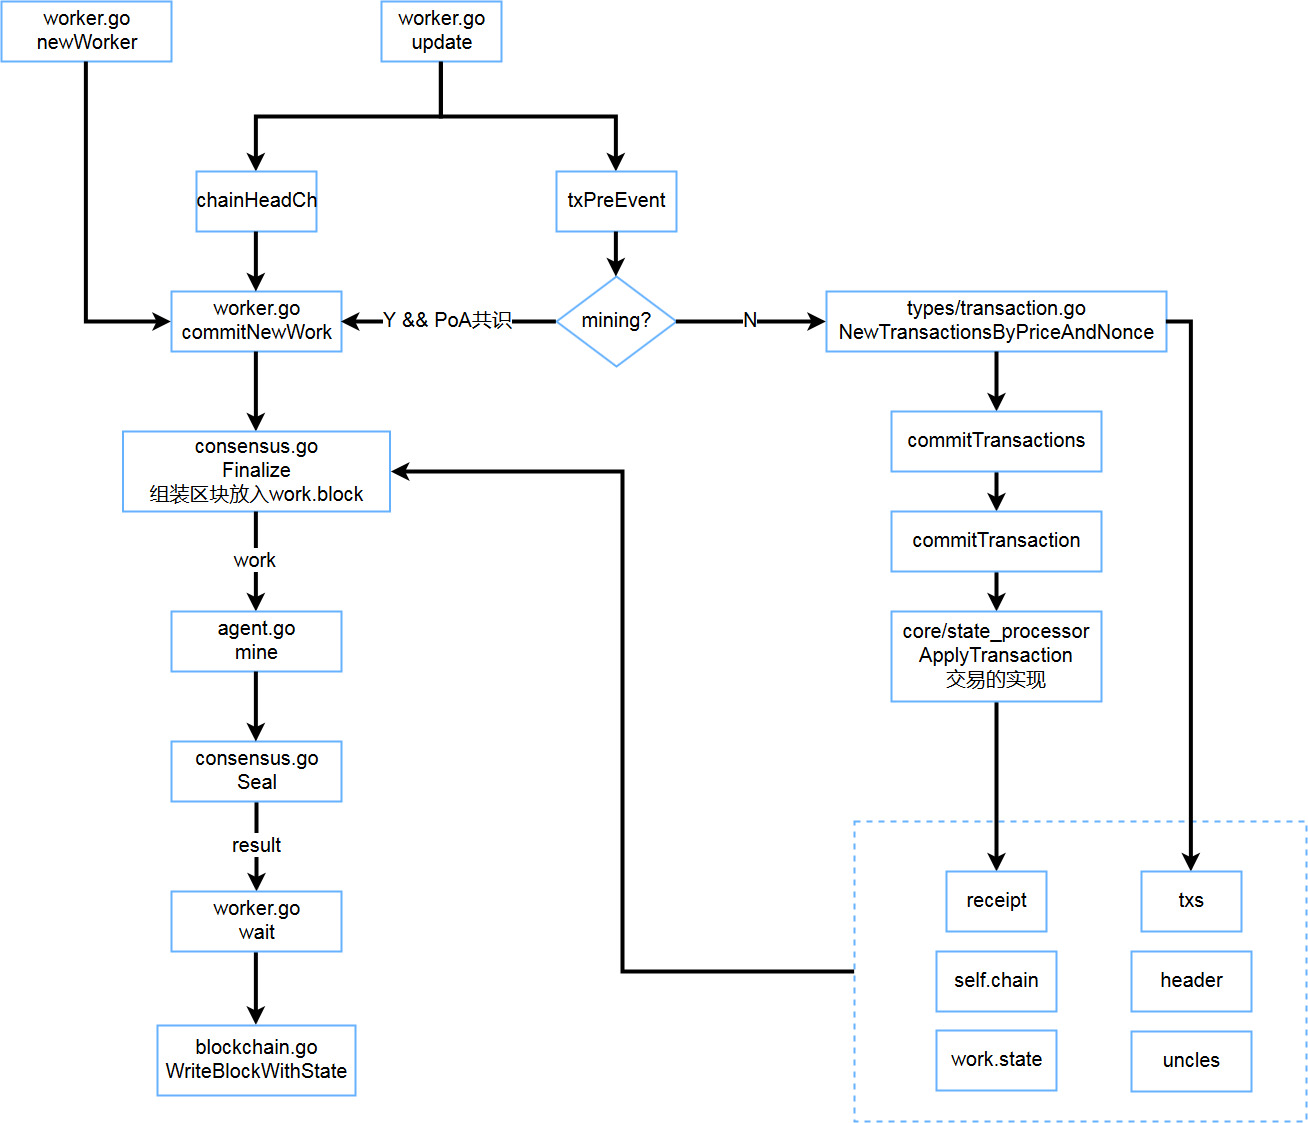
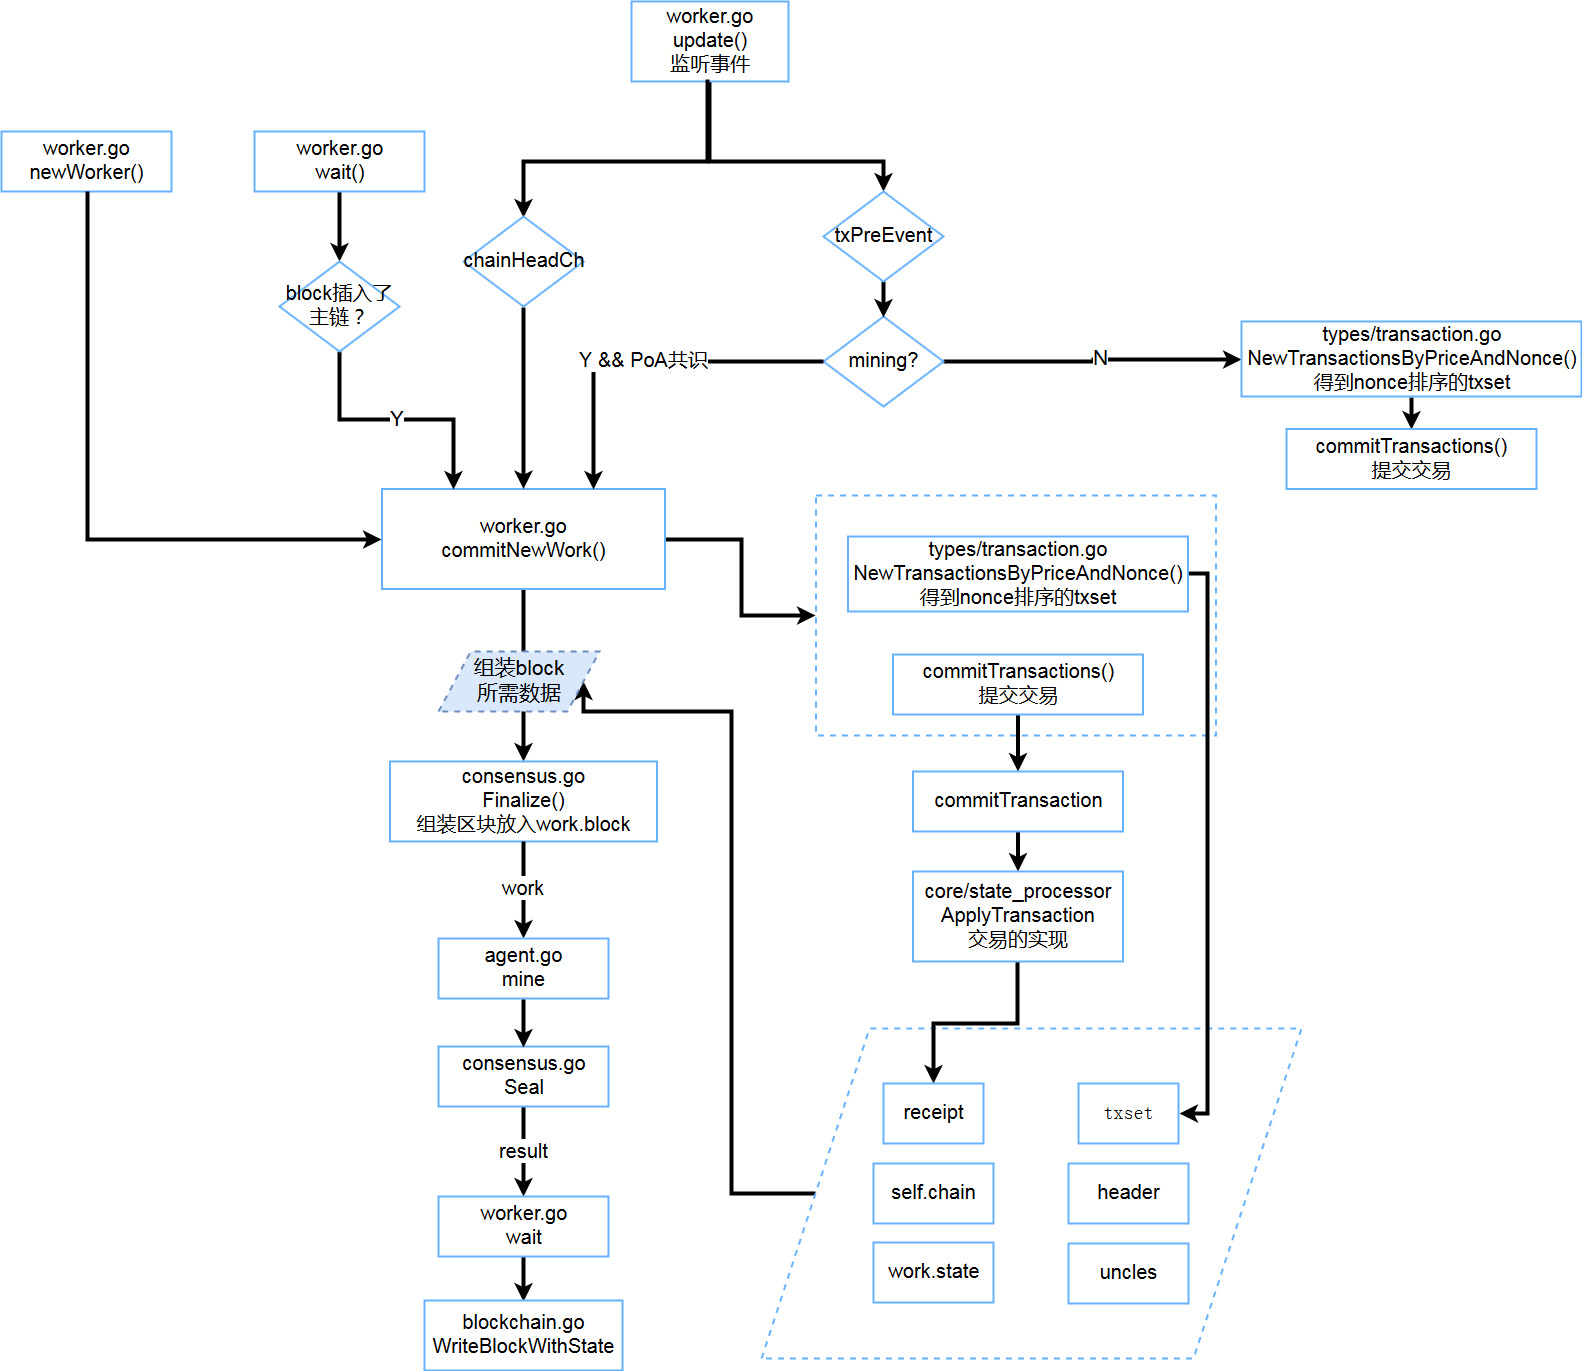
新区块插入，修改图片

Changed region(s): [[0.0, 0.0, 1.0, 1.0], [0.8563, 0.8415, 0.948, 0.935], [0.8869, 0.935, 0.948, 0.9662]]

diff --git a/start开始使用以太坊.md b/start开始使用以太坊.md
@@ -1,0 +1,247 @@
+# 以太坊使用，私有链搭建
+
+### 1.以太坊客户端安装
+我们使用了LINUX，MAC OSX，WINDOWS三种平台，安装运行了go-ethereum。
+
+
+##### 1.1 go语言安装
+
+
+**LINUX 安装go语言**  
+1). 下载源码  
+
+下载go语言最新的linux版本，go1.10.1.linux-amd64.tar.gz，解压到/usr/local/go
+
+下载地址，https://golang.org/dl/
+
+
+2). 配置环境变量 
+```
+命令行输入sudo gedit ~/.bashrc  
+在打开的文件最后加上两行代码：
+
+export GOPATH=/usr/local/go
+export PATH=$GOPATH/bin:$PATH
+
+命令行输入 source ~/.bashr  使配置生效
+命令行输入 go version  验证配置是否成功
+```
+
+
+**MAC OSX 安装go语言**  
+http://blog.csdn.net/soindy/article/details/70239442  
+
+
+**WINDOWS 安装go语言**  
+https://studygolang.com/articles/7585
+
+### 2. go-ethereum安装
+
+
+**LINUX**
+
+    git clone https://github.com/ethereum/go-ethereum
+    sudo apt-get install -y build-essential golang
+    cd go-ethereum
+    make geth
+
+**MAC OSX**
+
+    首先确保已安装 homebrew，没有安装过的可以在命令行下执
+    /usr/bin/ruby -e "$(curl -fsSL https://raw.githubusercontent.com/Homebrew/install/master/install)" 进行安装
+    brew tap ethereum/ethereum
+    brew install ethereum
+
+**WINDOWS**
+
+    访问 https://geth.ethereum.org/downloads/
+    下载并安装 Geth for Windows
+
+下面以linux为例：
+下面以linux为例：
+下面以linux为例：
+
+在环境变量中添加
+
+export PATH=$PATH:/usr/local/ethernum/go-ethereum/build/bin:$PATH
+
+
+在命令行下输入 geth -h , 有如下显示表示成功
+
+![eth安装成功.png](https://upload-images.jianshu.io/upload_images/1819486-45666a75fdce172f.png?imageMogr2/auto-orient/strip%7CimageView2/2/w/1240)
+
+
+
+
+### 3. 创建节点和创世区块
+
+以linux为例
+
+##### 3.1  编辑一个区块链文件 genesis.json
+```
+{
+  "config": {
+        "chainId": 109,
+        "homesteadBlock": 0,
+        "eip155Block": 0,
+        "eip158Block": 0
+    },
+  "alloc"      : {},
+  "coinbase"   : "0x0000000000000000000000000000000000000000",
+  "difficulty" : "0x10000",
+  "extraData"  : "",
+  "gasLimit"   : "0xffffff",
+  "nonce"      : "0x0000000000000077",
[2 lines of base64/hex data omitted]
+  "timestamp"  : "0x00"
+}
+```
+##### 3.2 创建节点
+
+任意创建一个文件夹ethereumNode，在其中创建文件data1和data2
+
+在ethereumNode文件下打开两个终端A,B
+
+
+**终端A中**
+
+对创世区块进行初始化，输入：
+```
+geth -datadir data1 init genesis.json
+```
+启动节点  端口号自行设定
+
+参数说明  
+networkid     网络标识符  
+datadir     	设置当前区块链网络数据存放的位置  
+console     	启动命令行模式，可以在Geth中执行命令  
+ipcdisable                禁用IPC-RPC服务器
+```
+geth --networkid 123 --datadir data1 --ipcdisable --port 61910 --rpcport 8200 console
+```
+**终端B中**  
+对创世区块进行初始化，输入：
+```
+geth -datadir data1 init genesis.json
+```
+启动节点  修改文件夹data2   端口号修改
+
+```
+geth --networkid 123 --datadir data2 --ipcdisable --port 61911 --rpcport 8201 console
+```
+进入>命令行即为启动成功
+
+
+### 4. 连接节点
+
+**终端A的命令行中查看节点enode**  
+```
+>admin.nodeInfo.enode
+"enode://2700fee9b8575b3a6df5146b192c74cc0a4eb832a8a3b95a80cc2a9aa73c7abb1a4cf2e734bb0228789611f86c95bcfe2654a187f3fa5ea58b49d245cf014e35@[::]:61910"
+```
+**终端B的命令行中添加邻居**
+```
+>admin.addPeer("enode://2700fee9b8575b3a6df5146b192c74cc0a4eb832a8a3b95a80cc2a9aa73c7abb1a4cf2e734bb0228789611f86c95bcfe2654a187f3fa5ea58b49d245cf014e35@[::]:61910")
+```
+在这里如果是多台机器之间的链接添加，需要将[::]改为对应机器的ip地址  
+
+**终端A的命令行中查看邻居**
+```
+admin.peers
+[{
+    caps: ["eth/63"],
[1 lines of base64/hex data omitted]
+    name: "Geth/v1.8.3-unstable-6a2d2869/linux-amd64/go1.9.2",
+    network: {
+      inbound: true,
+      localAddress: "[::1]:61910",
+      remoteAddress: "[::1]:50340",
+      static: false,
+      trusted: false
+    },
+    protocols: {
+      eth: {
+        difficulty: 7955328,
[1 lines of base64/hex data omitted]
+        version: 63
+      }
+    }
+}]
+
+```
+可以看到这里的id与终端B节点的的ip是相同的  
+同样，也可以在终端B中查看邻居，会得到节点B的信息  
+至此，两个节点就在一个区块链上连接成功
+
+## 5. 挖矿与交易
+
+挖矿前要创建账户
+```
+创建新账号
+personal.newAccount()
+或者 personal.newAccount("123456")
+```
+```
+挖矿
+开始挖矿 miner.start(1)
+停止挖矿 miner.stop()
+```
+挖矿一些时间我们可以查看产生了多少区块等信息
+```
+eth.blockNumber  查看区块数量
+eth.getBlock(1) 通过区块号查看区块
[1 lines of base64/hex data omitted]
+```
+挖矿成功也会得到token
+```
+查看账户余额
+eth.getBalance(eth.accounts[0])
+或者 web3.fromWei(eth.getBalance(eth.accounts[0]), "ether")
+```
+
+
+发起交易前要解锁账户
+```
+解锁账号
+personal.unlockAccount(eth.accounts[0])
+使用账户资金前都需要先解锁账号
+```
+查看终端B的账户信息
+```
+eth.accounts[0]
+"0xe4be4471c30c2552e14d1e26e8384db67b6d7e62"
+```
+
+在终端A中查看余额并转账
+```
+查看余额 单位是wei
+> eth.getBalance(eth.accounts[0])
+1000000000000000000
+
+转账  0.5个ether
+eth.sendTransaction({from:eth.accounts[0],to:"0xe4be4471c30c2552e14d1e26e8384db67b6d7e62",value:web3.toWei(0.5,"ether")})
+使用 txpool.status 可以看到交易状态
+
+挖矿确认交易
+miner.start()
+当有新的区块产生时停止挖矿
+miner.stop()
+```
+
+查看节点B的余额，转账成功
+```
+eth.getBalance(eth.accounts[0])
+500000000000000000
+```
+
+查看节点A的余额，数量反而变多，因为使用节点A进行了挖矿
+```
+eth.getBalance(eth.accounts[0])
+25500000000000000000
+```
+
+
+###   
+
+

diff --git a/blockchain.InsertChain方法.md b/blockchain.InsertChain方法.md
@@ -23,7 +23,7 @@
 
 #### 
 
-![](D:\wh\blockchain\技术相关\源码阅读\学习文档\blockchain-group\img\newBlockInsert.jpg)
+![](.\img\newBlockInsert.jpg)
 
 
 
